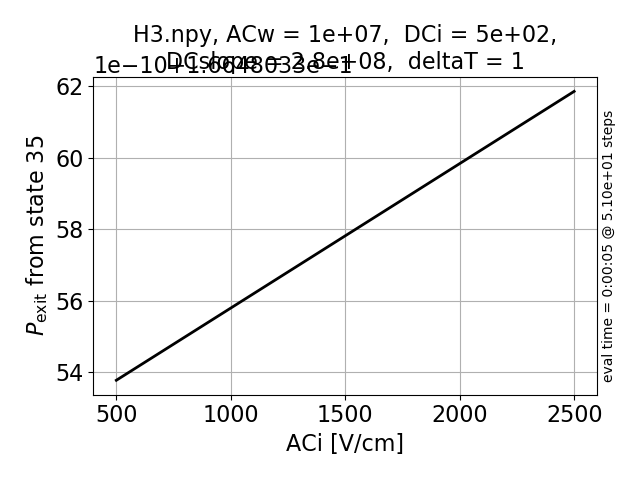
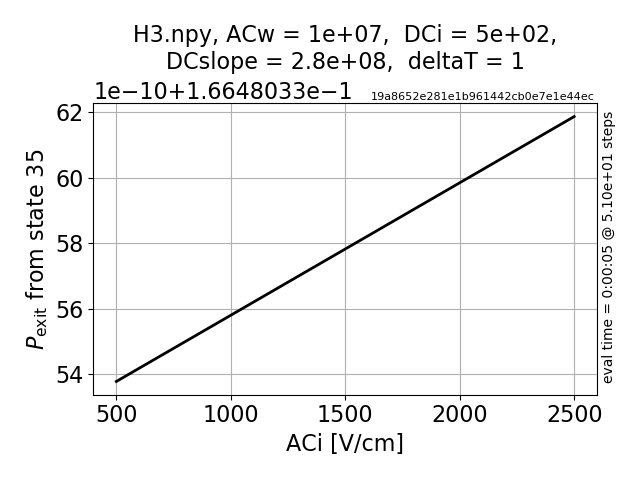
plots show results md5 hash

diff --git a/src/main.py b/src/main.py
@@ -205,10 +205,11 @@ def plot(run_dir, options_fname, title="", vmin=None, vmax=None):
     longtitle = title + option_dict["H_fname"].split("/")[-1] + ", "
     longtitle += ',  '.join(['%s\xa0=\xa0%.2g' % (key, value) \
             for (key, value) in option_dict["fixed_params"].items()])
-    plt.title("\n".join(wrap(longtitle, 45)), fontdict={'fontsize':16})
+    plt.title("\n".join(wrap(longtitle, 45)), fontdict={'fontsize':16}, pad=25)
     final_time = "eval time = "+str(datetime.timedelta(seconds=round(eval_time)))
     final_time += " @ " + '%.2e' % num_timesteps + " steps"
     plt.text(1.01, .05, final_time, transform=plt.gca().transAxes, rotation='vertical', fontdict={'fontsize':10})
+    plt.text(.55, 1.01, results_md5, transform=plt.gca().transAxes, fontdict={'fontsize':8})
     units = option_dict["units"]
     if "scan_range2" in option_dict:
        plt.xlabel(option_dict["scan_param"]+" ["+units[option_dict["scan_param"]]+"]")
